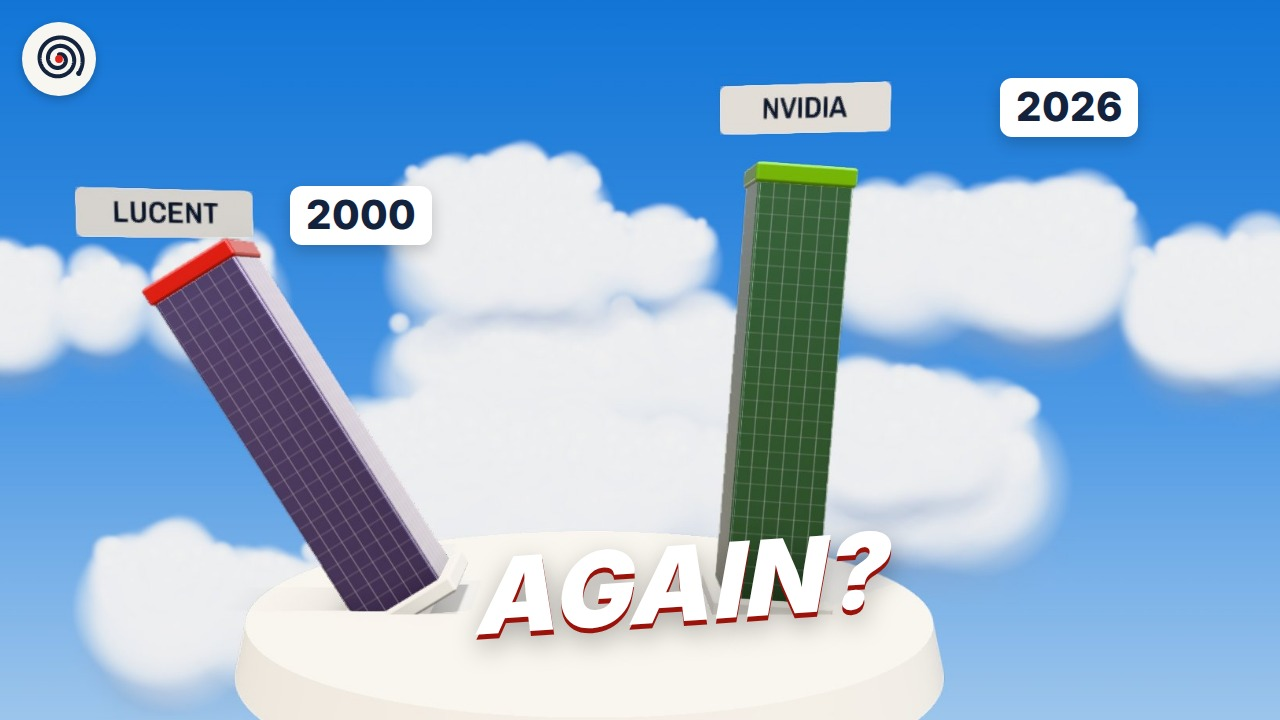
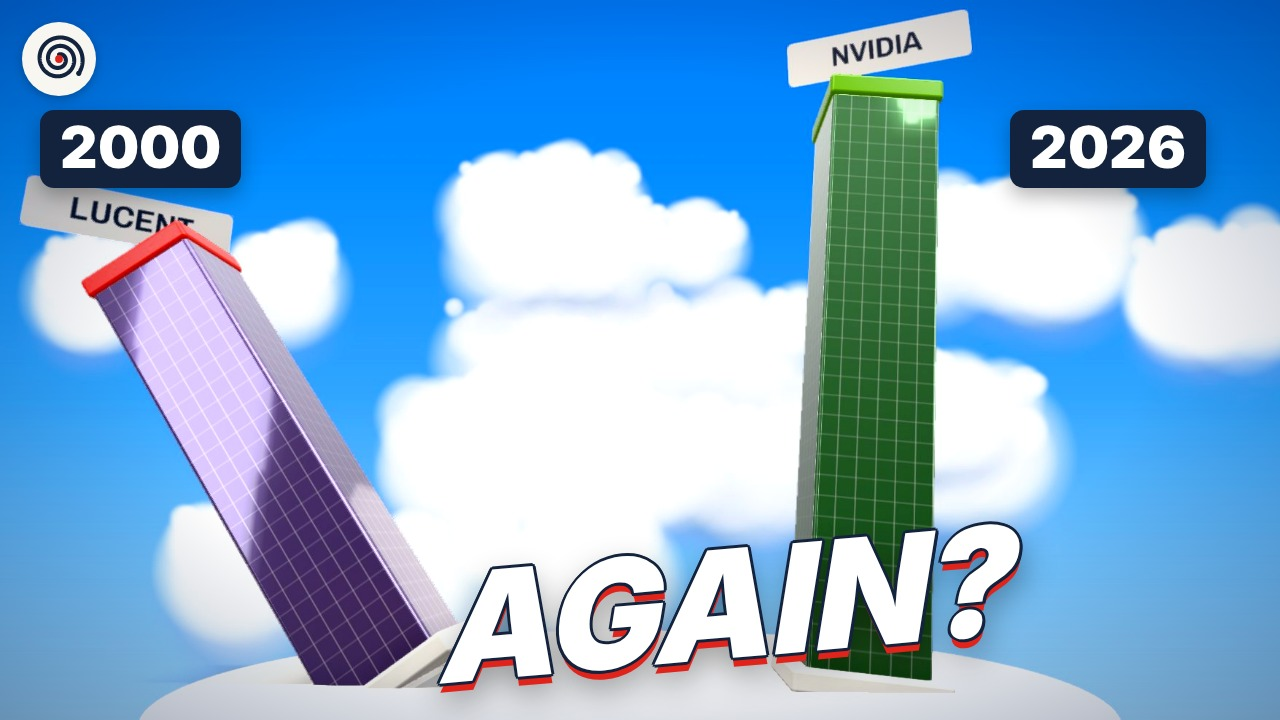
Ep8 thumbnails: bolder crops, chip hero for B, stronger grade and type
Claude-Session: https://claude.ai/code/session_01FMQnPjokachikudnZNL8ev

diff --git a/projects/aibubble/sets/ai-sets.js b/projects/aibubble/sets/ai-sets.js
@@ -96,7 +96,7 @@ function economy({ labels = ['NVIDIA', 'OPENAI', 'ORACLE'], extra = true } = {})
   const disc = new THREE.Mesh(new THREE.CylinderGeometry(10, 10.4, 0.6, 96), S.clay('#f4f2ee', { rough: 0.6, coat: 0.3 })); disc.position.y = -0.3; disc.receiveShadow = true; G.add(disc);
   const ring = new THREE.Mesh(new THREE.TorusGeometry(10.2, 0.08, 12, 128).rotateX(Math.PI / 2), S.clay('#14233d')); ring.position.y = 0.02; G.add(ring);
   const spots = [[0, -4.2], [4.6, 2.4], [-4.6, 2.4]];
-  const towers = labels.map((l, i) => { const t = tower({ w: [2.8, 2.6, 2.6][i % 3], d: [2.8, 2.6, 2.6][i % 3], h: [9.5, 7.6, 8.2][i % 3], label: l, glass: ['#1f3326', '#22262c', '#3a2424'][i % 3], accent: ['#76b900', '#14233d', '#e0241b'][i % 3], shape: i === 1 ? 'cyl' : 'box' }); t.position.set(spots[i][0], 0, spots[i][1]); G.add(t); return t; });
+  const towers = labels.map((l, i) => { const t = tower({ w: [2.8, 2.6, 2.6][i % 3], d: [2.8, 2.6, 2.6][i % 3], h: [9.5, 7.6, 8.2][i % 3], label: l, glass: ['#4f7a52', '#4a5260', '#8a4a46'][i % 3], accent: ['#76b900', '#14233d', '#e0241b'][i % 3], shape: i === 1 ? 'cyl' : 'box' }); t.position.set(spots[i][0], 0, spots[i][1]); G.add(t); return t; });
   if (extra) { const dc1 = datacenter({ w: 5.5, d: 2.6 }); dc1.position.set(-0.4, 0, 4.6); G.add(dc1); const dc2 = datacenter({ w: 3.6, d: 2.2 }); dc2.position.set(6.2, 0, -3.6); dc2.rotation.y = 0.6; G.add(dc2); const dc3 = datacenter({ w: 3.6, d: 2.2 }); dc3.position.set(-6.2, 0, -3.4); dc3.rotation.y = -0.6; G.add(dc3); }
   const loopPts = spots.map(([x, z], i) => [x * 0.6, 3.2 + i * 0.2, z * 0.6]);
   const loop = moneyLoop([[0, 8.6, -3.4], [3.2, 9.8, -0.4], [4.4, 7.6, 2.0], [0.6, 8.6, 2.6], [-4.4, 8.4, 2.0], [-3.2, 9.8, -0.6]], { n: 14, scale: 0.9 }); G.add(loop);
@@ -130,7 +130,7 @@ export default function aiSets(H) {
         { const dx = b[0] - a[0], dz = b[1] - a[1], L = Math.hypot(dx, dz) || 1, sp = P0.spread ?? 2.6; mid[0] += -dz / L * sp; mid[2] += dx / L * sp; }
         const curve = new THREE.QuadraticBezierCurve3(v3([a[0], ha * 0.7, a[1]]), v3(mid), v3([b[0], hb * 0.7, b[1]]));
         const col = f.kind === 'guarantee' ? '#e0241b' : f.kind === 'buy' ? '#2a8c86' : '#14233d';
-        const tube = new THREE.Mesh(new THREE.TubeGeometry(curve, 80, 0.16, 10, false), new THREE.MeshStandardMaterial({ color: col, emissive: col, emissiveIntensity: 0.25, roughness: 0.4 })); scene.add(tube);
+        const tube = new THREE.Mesh(new THREE.TubeGeometry(curve, 80, (P0.tube ?? 0.16) * (f.kind === 'guarantee' ? (P0.tubeHot ?? 1) : 1), 12, false), new THREE.MeshStandardMaterial({ color: col, emissive: col, emissiveIntensity: f.kind === 'guarantee' ? (P0.glow ?? 0.25) : 0.25, roughness: 0.4 })); scene.add(tube);
         const bills = []; for (let k = 0; k < 4; k++) { const c = PR.cashStack({ w: 1.56, d: 0.66, h: 0.12 }); c.scale.setScalar(0.7); scene.add(c); bills.push(c); }
         return { f, curve, tube, bills, mid, at: S.cue(shot, f.at, 0.8 + i * 1.2) };
       }).filter(Boolean);
@@ -206,9 +206,10 @@ export default function aiSets(H) {
       for (let i = 0; i < 40; i++) { const cap = new THREE.Mesh(S.roundBox(0.12, 0.06, 0.07, 0.01), S.clay('#c9a45a')); cap.position.set(-2.6 + (i % 20) * 0.27, 0.1, i < 20 ? -1.85 : 1.6); G.add(cap); }
       const layer = H.layerOf(ctx); const cap = P0.caption ? H.caption(layer, P0.caption, 'left:5.5%;top:7.5%', { at: 0.35 }) : null; H.sourceLine(layer, P0.source ?? null);
       st.applyEnv();
+      if (P0.sky) { const { paintedSky } = await import('./thumbs.js'); scene.background = paintedSky(P0.seed ?? 4); scene.fog = null; st.cyc.visible = false; st.contact.plane.visible = false; G.rotation.x = P0.tiltX ?? 0; }
       const fx = H.P.post(ctx, scene, camera, { ao: { radius: 0.15, intensity: 1.6, falloff: 0.8 }, dof: { focus: 9, range: 1.6, bokeh: 4 }, bloom: { intensity: 0.4, threshold: 1.4 }, tone: 'neutral', quality: P0.quality ?? 'medium' });
       const dur = shot.duration ?? 6;
-      return { scene, camera, layer, update(t) { G.rotation.y = -0.5 + t / dur * 0.6; const c = S.rig(camera, P0.camera ?? [{ pos: [6.2, 4.8, 9.4], look: [0, 0.2, 0], mm: 55 }, { pos: [4.8, 3.8, 8.0], look: [0, 0.2, 0], mm: 60 }], t, { t0: 0, t1: dur, float: 0.01 }); fx.focus(c.dist); cap?.type(t); st.contact.update([st.cyc]); } };
+      return { scene, camera, layer, update(t) { G.rotation.y = P0.spinY ?? (-0.5 + t / dur * 0.6); const c = S.rig(camera, P0.camera ?? [{ pos: [6.2, 4.8, 9.4], look: [0, 0.2, 0], mm: 55 }, { pos: [4.8, 3.8, 8.0], look: [0, 0.2, 0], mm: 60 }], t, { t0: 0, t1: dur, float: 0.01 }); fx.focus(c.dist); cap?.type(t); if (st.contact.plane.visible) st.contact.update([st.cyc]); } };
     },
 
     // ================================================================ dominoes: the chain. Labelled slabs topple one after another (cue per slab)
@@ -294,7 +295,7 @@ export default function aiSets(H) {
       const shaft = new THREE.Mesh(new THREE.CylinderGeometry(0.06, 0.12, 14, 24).translate(0, 7, 0), nm); shaft.castShadow = true; needle.add(shaft);
       const tip = new THREE.Mesh(new THREE.ConeGeometry(0.06, 1.2, 24).translate(0, -0.6, 0).rotateZ(Math.PI), nm); needle.add(tip);
       const head = new THREE.Mesh(new THREE.SphereGeometry(0.7, 32, 20), S.glossy('#e0241b', { rough: 0.25, coat: 1 })); head.position.y = 14.4; needle.add(head);
-      needle.rotation.z = -Math.PI / 2 - 0.35; needle.visible = mode === 'needle' || mode === 'pop'; world.add(needle);
+      if (P0.needleScale) { needle.scale.set(P0.needleScale, 1, P0.needleScale); head.scale.set(1, P0.needleScale, 1); } needle.rotation.z = -Math.PI / 2 - 0.35; needle.visible = mode === 'needle' || mode === 'pop'; world.add(needle);
       // droplets for the pop
       const ND = 420, drops = new THREE.InstancedMesh(new THREE.SphereGeometry(0.12, 8, 6), new THREE.MeshPhysicalMaterial({ color: '#ffffff', roughness: 0.05, transmission: 0, iridescence: 1, transparent: true, opacity: 0.7, envMapIntensity: 2 }), ND);
       const dirs = []; const r = S.rng(11); for (let i = 0; i < ND; i++) { const u = r() * 2 - 1, a = r() * 6.283; const s = Math.sqrt(1 - u * u); dirs.push([s * Math.cos(a), u, s * Math.sin(a), 0.6 + r() * 0.8]); }
@@ -322,7 +323,7 @@ export default function aiSets(H) {
           const pop = mode === 'pop' ? t - popAt : -1;
           film.rotation.y = t * 0.05; film.scale.set(1 + Math.sin(t * 1.3) * 0.006, 1 + Math.sin(t * 1.1 + 1) * 0.008, 1 + Math.sin(t * 1.7 + 2) * 0.006);
           // needle: slides in from the right toward the film
-          if (needle.visible) { const k = S.inOut(S.range(t, needleAt, mode === 'pop' ? popAt : dur)); const d = mode === 'pop' ? S.lerp(R + 9, R - 0.1, k) : S.lerp(R + 14, R + 1.2, k);
+          if (needle.visible) { const k = S.inOut(S.range(t, needleAt, mode === 'pop' ? popAt : dur)); const d = mode === 'pop' ? S.lerp(R + 9, R - 0.1, k) : S.lerp(R + 14, P0.needleEnd ?? R + 1.2, k);
             needle.position.set(Math.cos(0.35) * d, 4 + Math.sin(0.35) * d, 0.0); }
           film.visible = pop < 0; drops.visible = pop >= 0 && pop < 2.5;
           if (pop >= 0) { for (let i = 0; i < ND; i++) { const [x, y, z, s] = dirs[i]; const rr = R + pop * 9 * s; const g = 4 + y * rr - 9.8 * pop * pop * 0.6; S.place(drops, i, [x * rr, g, z * rr], [0, 0, 0], Math.max(0.0001, 1 - pop / 2.5)); } drops.instanceMatrix.needsUpdate = true;

diff --git a/projects/aibubble/YOUTUBE.md b/projects/aibubble/YOUTUBE.md
@@ -5,7 +5,7 @@
 - **Title test (Test & Compare, thumbnail fixed):** the lead vs "Nvidia Is Paying Its Customer's Rent".
 - **Thumbnails (Test & Compare, title fixed):**
   - `thumbs/A.jpg`: the bubble holding the AI economy, a red needle, "POP?" (lead).
-  - `thumbs/B.jpg`: the circle of company towers with money arcs, "$105B".
+  - `thumbs/B.jpg`: a glossy Nvidia chip floating on the sky, "$105B · RENT GUARANTEE".
   - `thumbs/C.jpg`: Lucent toppling beside Nvidia, "2000 / 2026 · AGAIN?".
 
   Rebuild with `node projects/aibubble/thumbs/make.mjs` (renders come from `projects/aibubble-lab` thA/thB/thC at `--stills=0.95`).
